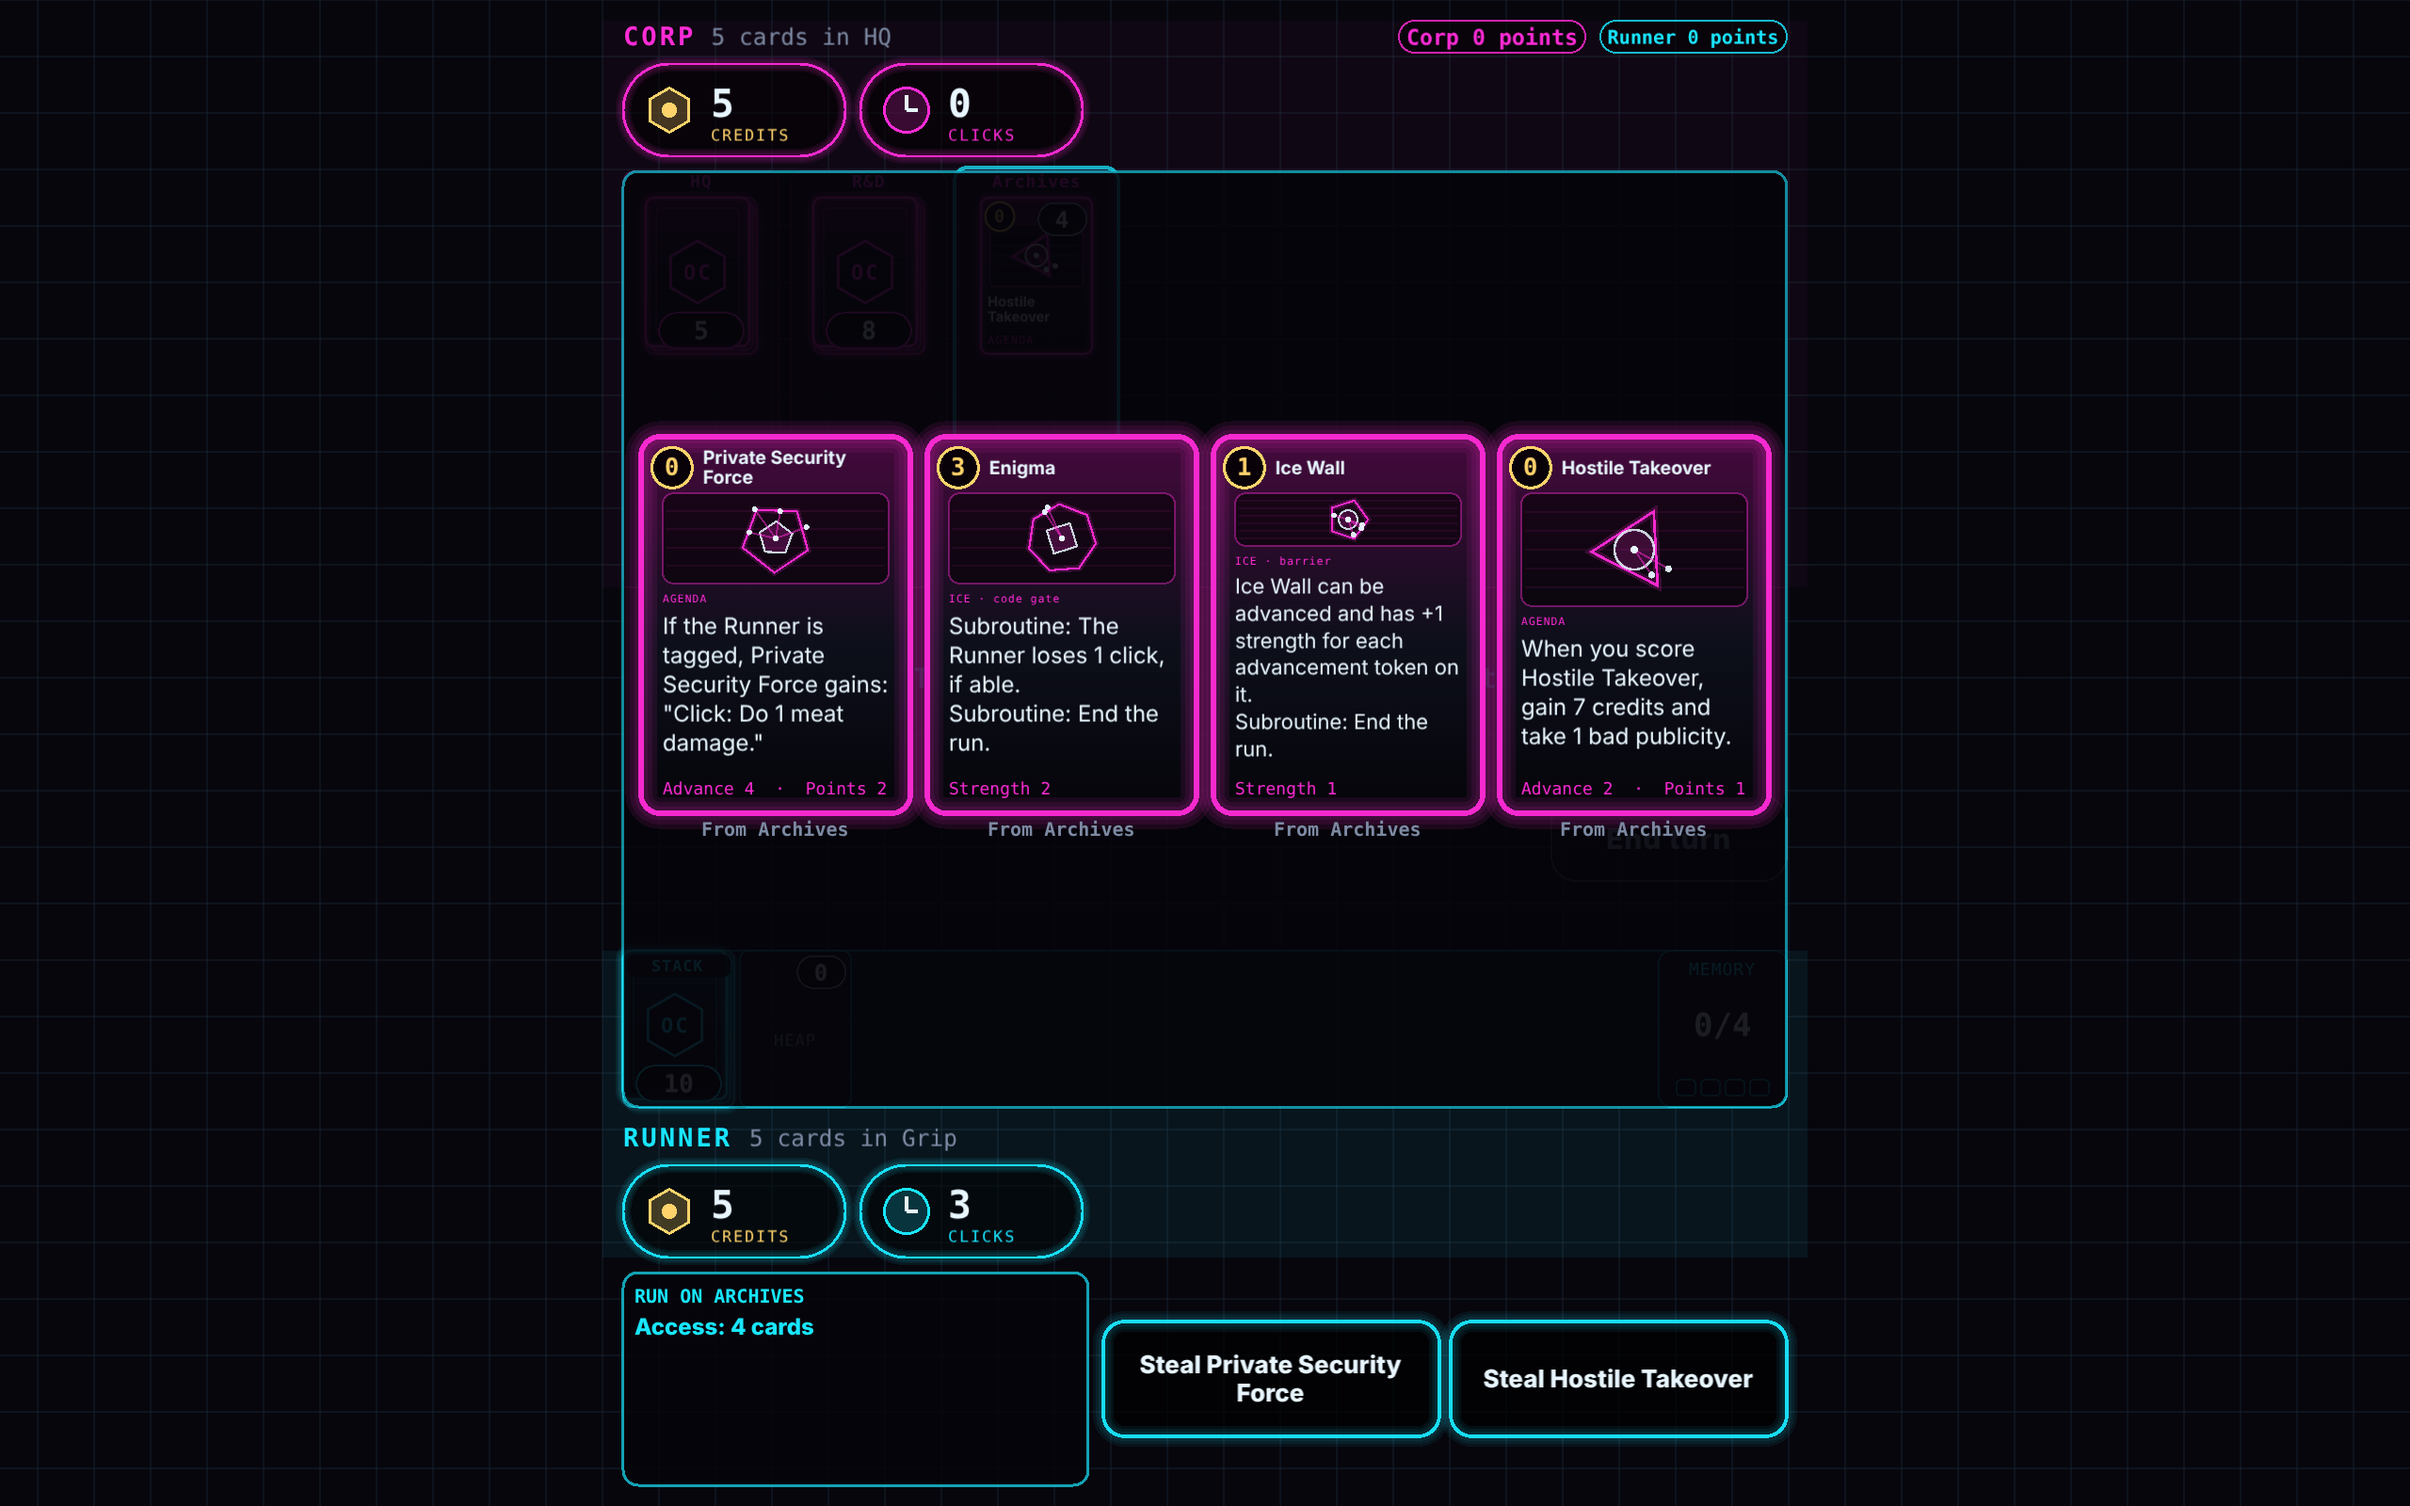
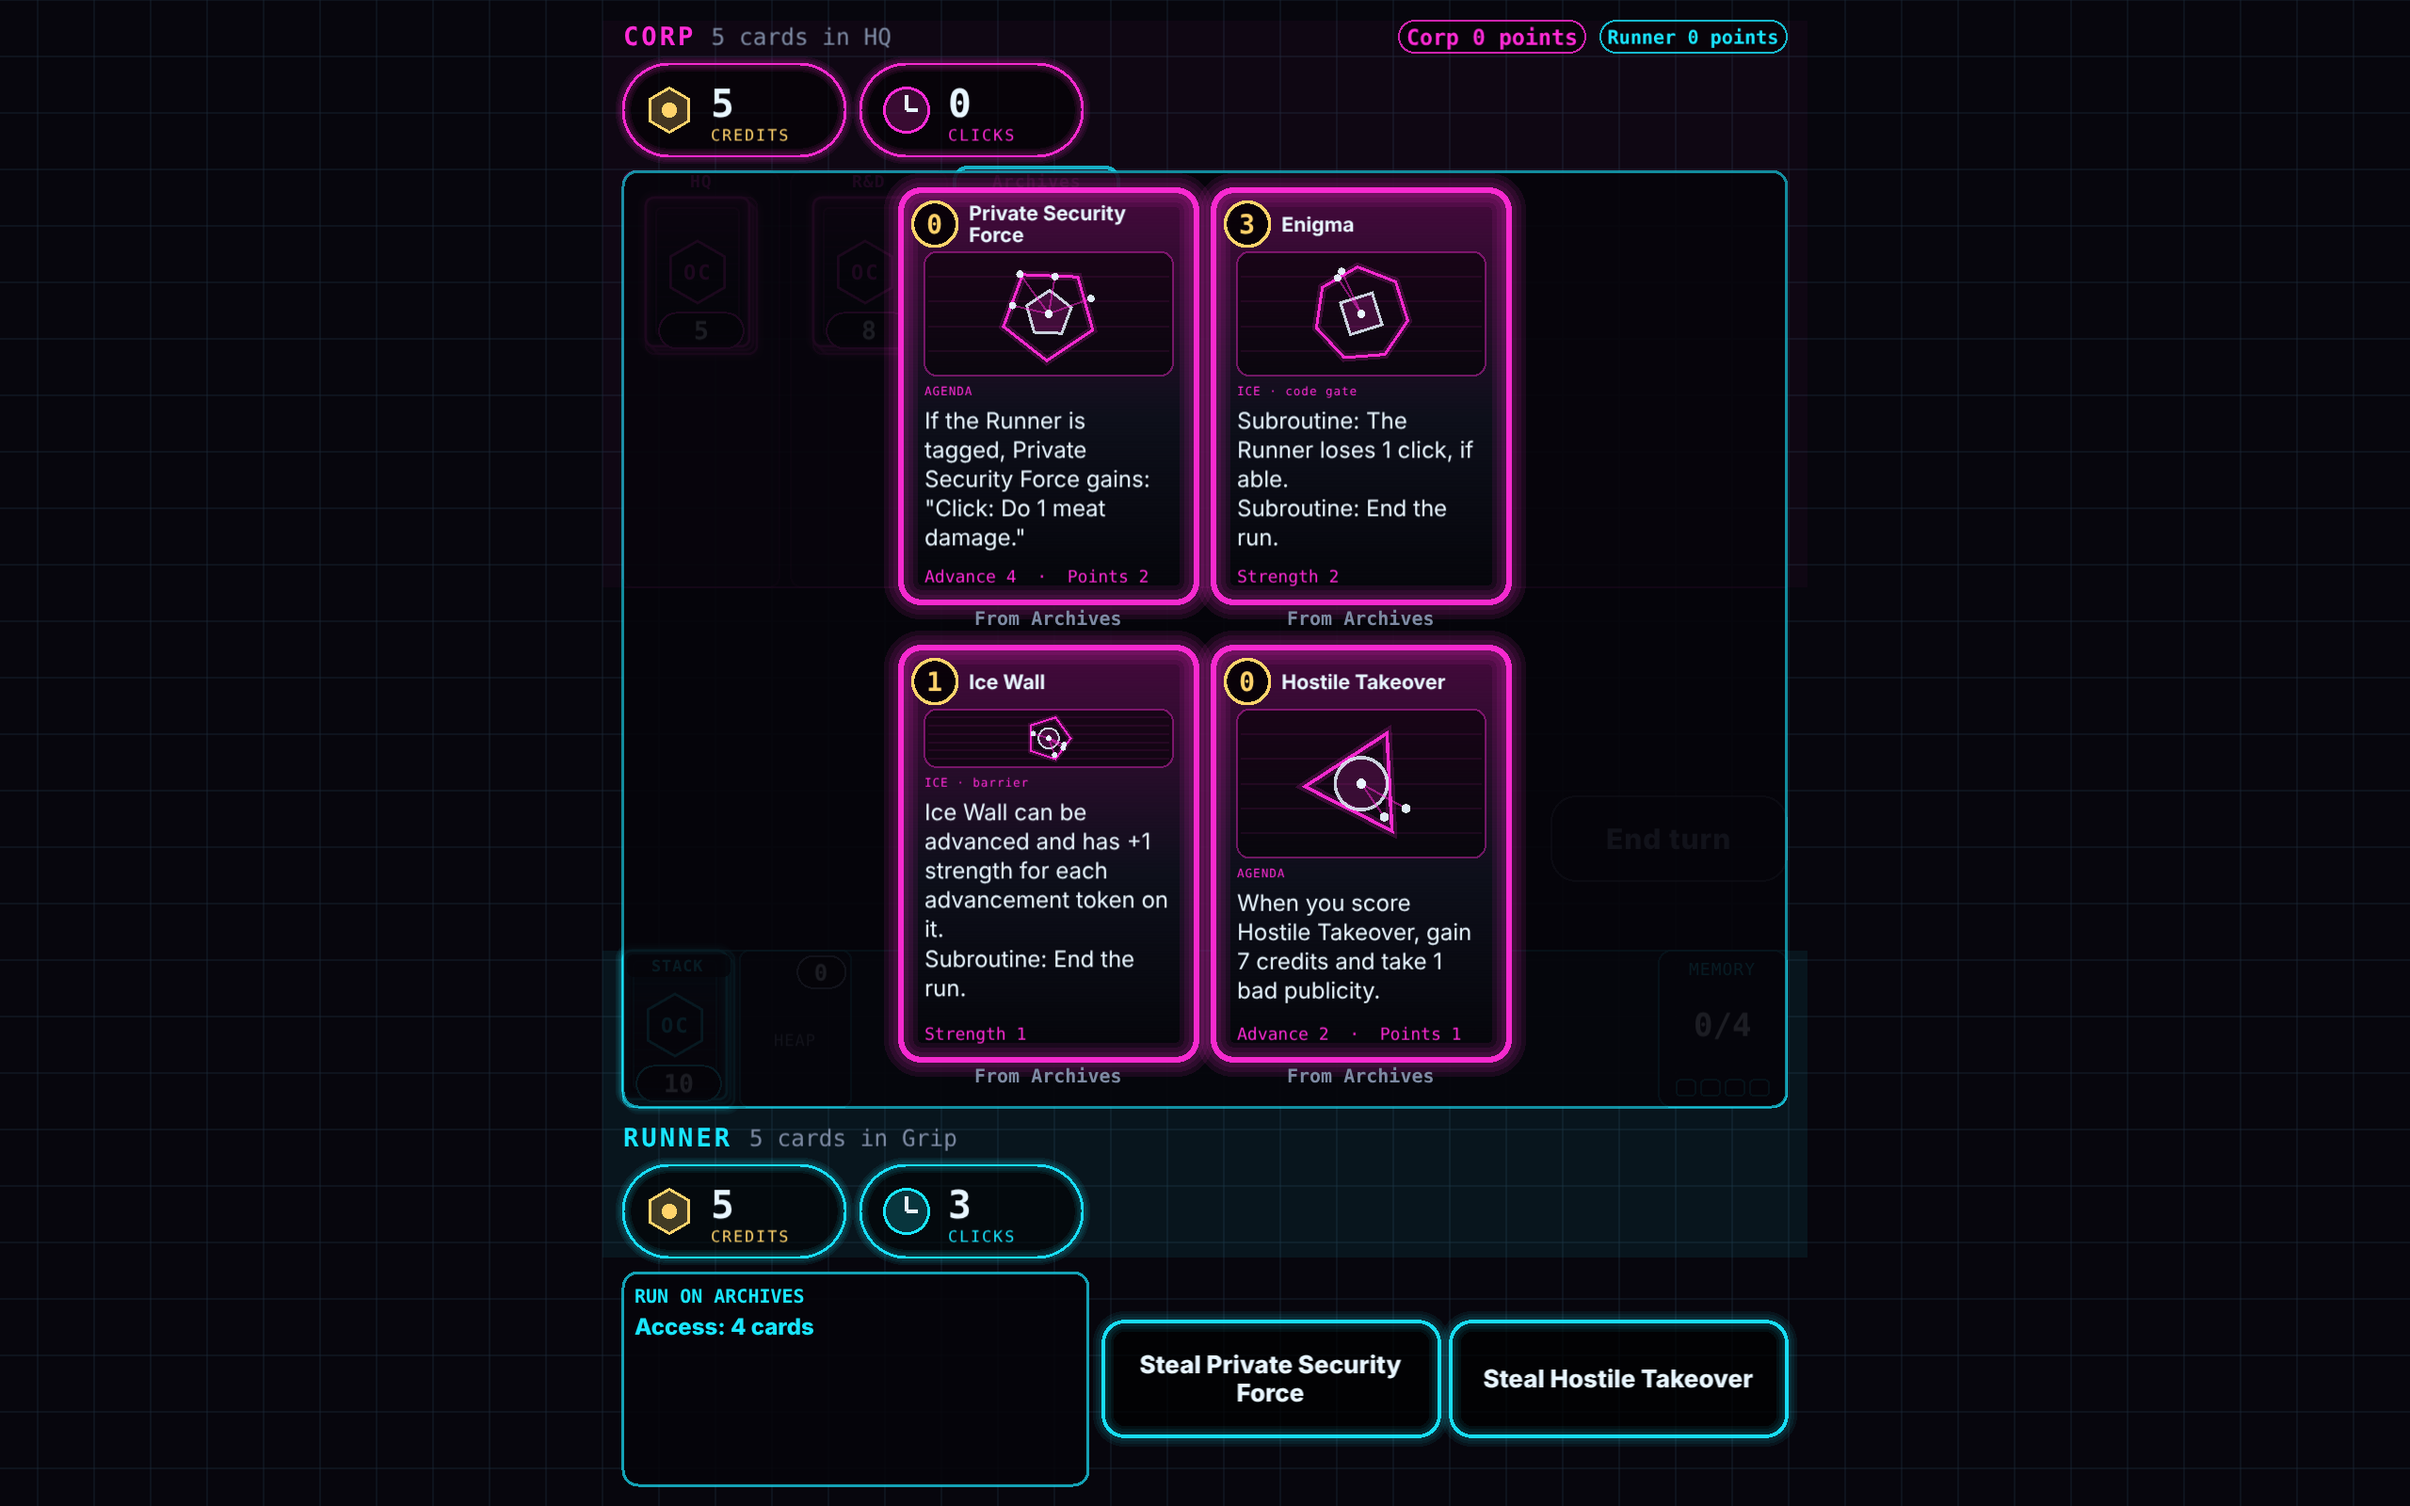
QA-S3-1: accessed cards wrap into rows instead of shrinking one row
accessSlots() picks the row count that gives the biggest cards (12 Archives
cards: 2 rows of 76px on 640x360, 3 rows of ~120px on desktop, was one row
of 33px / 41px); each "From Archives" tag fits its own card. Unit test
for 1-17 cards on the three sizes (inside, no overlap with tag room, >= 44px).
QA's "twelve cards in Archives" test no longer expected to fail; its
Archives screenshots regenerated with the fix.

Claude-Session: https://claude.ai/code/session_01H2afARaP73b7hrKujqy1HQ

Changed region(s): [[0.25, 0.0938, 0.75, 0.7188]]

diff --git a/apps/client/src/layout.ts b/apps/client/src/layout.ts
@@ -709,15 +709,34 @@ export function buttonGrid(area: Box, count: number, opts: { gap: number; minW: 
   return out;
 }
 
-/** Card boxes for `count` accessed cards shown large in `area` (one row, as big as fits, `tagH` kept below each). */
+/**
+ * Card boxes for `count` accessed cards shown large in `area`, in as many rows as
+ * gives the biggest cards (QA-S3-1: a late-game Archives of 12 cards wraps instead of
+ * shrinking one row below 44px), each with `tagH` kept below it for its tag. Rows are
+ * filled left to right and centered.
+ */
 export function accessSlots(area: Box, count: number, tagH: number, gap: number): Box[] {
   if (count <= 0) return [];
-  const maxH = Math.max(1, area.height - tagH - 2 * gap);
-  let w = Math.min(maxH / CARD_RATIO, (area.width - (count + 1) * gap) / count, 220);
-  w = Math.max(1, Math.floor(w));
+  let best = { w: 0, rows: 1, cols: count };
+  for (let rows = 1; rows <= count; rows++) {
+    const cols = Math.ceil(count / rows);
+    if (rows > 1 && Math.ceil(count / (rows - 1)) === cols) continue;
+    const byW = (area.width - (cols + 1) * gap) / cols;
+    const byH = (area.height - rows * tagH - (rows + 1) * gap) / rows / CARD_RATIO;
+    const w = Math.floor(Math.min(byW, byH, 220));
+    if (w > best.w) best = { w, rows, cols };
+  }
+  const w = Math.max(1, best.w);
   const h = Math.floor(w * CARD_RATIO);
-  const rowW = count * w + (count - 1) * gap;
-  const left = area.x + (area.width - rowW) / 2;
-  const top = area.y + (area.height - h - tagH) / 2;
-  return Array.from({ length: count }, (_, i) => box(left + i * (w + gap), top, w, h));
+  const rowH = h + tagH;
+  const blockH = best.rows * rowH + (best.rows - 1) * gap;
+  const top = area.y + (area.height - blockH) / 2;
+  const out: Box[] = [];
+  for (let r = 0; r < best.rows; r++) {
+    const inRow = Math.min(best.cols, count - r * best.cols);
+    const rowW = inRow * w + (inRow - 1) * gap;
+    const left = area.x + (area.width - rowW) / 2;
+    for (let i = 0; i < inRow; i++) out.push(box(left + i * (w + gap), top + r * (rowH + gap), w, h));
+  }
+  return out;
 }

diff --git a/apps/client/test/accessSlots.test.ts b/apps/client/test/accessSlots.test.ts
@@ -1,0 +1,33 @@
+// QA-S3-1: accessed cards (Archives late in a game) wrap into rows instead of shrinking one row.
+import { describe, expect, it } from 'vitest';
+import type { Box } from '../src/hook-types';
+import { accessSlots, computeLayout } from '../src/layout';
+
+const inside = (b: Box, r: Box) => b.x >= r.x - 0.5 && b.y >= r.y - 0.5 && b.x + b.width <= r.x + r.width + 0.5 && b.y + b.height <= r.y + r.height + 0.5;
+const overlaps = (a: Box, b: Box) => a.x + 0.5 < b.x + b.width && b.x + 0.5 < a.x + a.width && a.y + 0.5 < b.y + b.height && b.y + 0.5 < a.y + a.height;
+
+describe('accessSlots', () => {
+  for (const [w, h] of [[844, 390], [640, 360], [1280, 800]] as const) {
+    const area = computeLayout(w, h, {}, { viewer: 'runner' }).access;
+    it(`${w}x${h}: 1-17 cards fit inside, never overlap (tag room included), and stay at least 44px wide`, () => {
+      const tagH = 16;
+      for (let n = 1; n <= 17; n++) {
+        const slots = accessSlots(area, n, tagH, 6);
+        expect(slots).toHaveLength(n);
+        for (const s of slots) {
+          expect(inside({ ...s, height: s.height + tagH }, area), `${n} cards: ${JSON.stringify(s)}`).toBe(true);
+          expect(s.width, `${n} cards`).toBeGreaterThanOrEqual(44);
+        }
+        for (let i = 0; i < n; i++) for (let j = i + 1; j < n; j++) expect(overlaps({ ...slots[i]!, height: slots[i]!.height + tagH }, slots[j]!)).toBe(false);
+      }
+    });
+  }
+
+  it('one card stays big (one row); twelve wrap into rows bigger than one row of twelve', () => {
+    const area = computeLayout(640, 360, {}, { viewer: 'runner' }).access;
+    expect(accessSlots(area, 1, 16, 6)[0]!.width).toBeGreaterThanOrEqual(120);
+    const twelve = accessSlots(area, 12, 16, 6);
+    expect(new Set(twelve.map((b) => b.y)).size).toBeGreaterThan(1);
+    expect(twelve[0]!.width).toBeGreaterThanOrEqual(60);
+  });
+});

diff --git a/apps/client/e2e/qa-sprint03.spec.ts b/apps/client/e2e/qa-sprint03.spec.ts
@@ -290,8 +290,7 @@ test.describe('QA S-03-1 Archives with several cards', () => {
 test.describe('QA S-03-1 a late-game Archives', () => {
   test('twelve cards in Archives are all shown, each at least 44px wide, clear of the buttons', async ({ page }) => {
     test.setTimeout(60_000);
-    // QA-S3-1: one row of ever-smaller cards (33px on 640x360, 41px on desktop). Remove when fixed.
-    test.fail(['phone-small', 'desktop'].includes(test.info().project.name), 'QA-S3-1: late-game Archives cards shrink below 44px');
+    // QA-S3-1 (fixed): the cards wrap into rows instead of shrinking one row below 44px.
     await openBoard(page, 1);
     // Three Corp turns of "draw 3, discard 4"; the Runner just passes.
     for (let t = 0; t < 3; t++) {

diff --git a/apps/client/src/runDisplay.ts b/apps/client/src/runDisplay.ts
@@ -288,7 +288,7 @@ export class RunDisplay {
       });
       tag.anchor.set(0.5, 0);
       tag.position.set(b.x + b.width / 2, b.y + b.height + 2);
-      fitText(tag, b.width + gap - 2);
+      fitText(tag, b.width - 2);
       this.access.addChild(tag);
     });
   }
